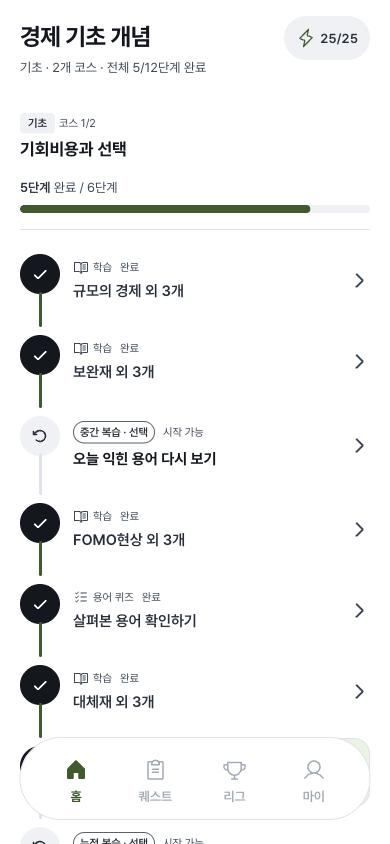
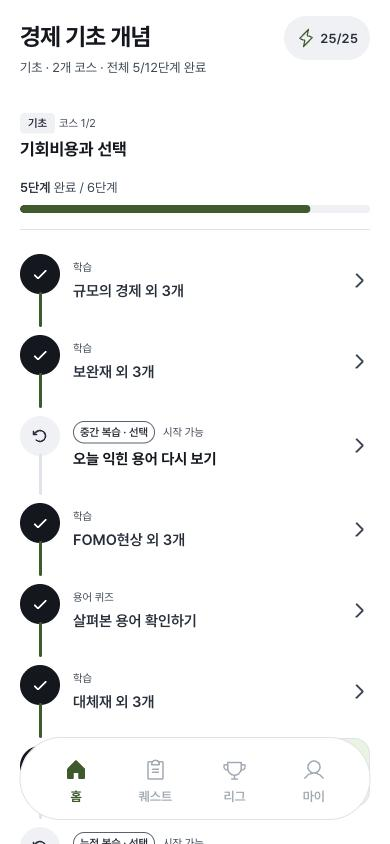
주제 화면 단계 줄에서 책·퀴즈 아이콘 제거, 완료 글자는 체크로 대신하고 화면 읽기용으로만

diff --git a/src/pages/CourseScreen.test.tsx b/src/pages/CourseScreen.test.tsx
@@ -478,7 +478,6 @@ describe('학습 주제의 역할 아이콘', () => {
     const current = container.querySelector('.course-node-current');
     expect(current).toBeInTheDocument();
     expect(current).not.toHaveClass('border-brand-200');
-    expect(current?.querySelector('[data-learning-icon]')?.parentElement).not.toHaveClass('bg-[var(--color-brand-soft)]');
     expect(current?.querySelector('[data-learning-status]')).toHaveTextContent('시작 가능');
     expect(current?.querySelector('[data-learning-status]')).not.toHaveClass('rounded-full');
     expect(current?.textContent).not.toContain('지금 할 일');
@@ -496,14 +495,11 @@ describe('학습 주제의 역할 아이콘', () => {
     expect(state.spendEnergy).toHaveBeenCalledWith(1, 'lesson', 'c1-l0:1,2,3,4');
   });
 
-  it('학습·퀴즈는 번호와 역할 그림, 복습은 번호 없이 배지로 구분한다', async () => {
+  it('학습·퀴즈는 번호와 역할 글자(아이콘 없이), 복습은 번호 없이 배지로 구분한다', async () => {
     const { container } = await mount();
-    const icons = [...container.querySelectorAll('[data-learning-icon]')];
-    expect(icons.map(icon => icon.getAttribute('data-learning-icon'))).toEqual(['lesson', 'quiz']);
-    for (const icon of icons) {
-      expect(icon).toHaveAttribute('width', '16');
-      expect(icon).toHaveAttribute('aria-hidden', 'true');
-    }
+    const kinds = [...container.querySelectorAll('[data-learning-kind]')];
+    expect(kinds.map(kind => kind.getAttribute('data-learning-kind'))).toEqual(['lesson', 'quiz']);
+    expect(container.querySelector('[data-learning-icon]')).toBeNull();
     expect(container.querySelector('[data-review-badge]')).toHaveTextContent('· 선택');
     const markers = [...container.querySelectorAll('.course-step-marker')];
     const review = markers.find(m => m.getAttribute('data-step-kind') === 'review')!;
@@ -511,11 +507,19 @@ describe('학습 주제의 역할 아이콘', () => {
     expect(review.querySelector('[data-icon="RotateCcw"]')).toBeInTheDocument();
   });
 
+  it('완료한 단계는 체크만 보이고 완료 글자는 화면 읽기용으로만 둔다', async () => {
+    baseContext({ knownIds: new Set([1, 2, 3, 4]) });
+    const { container } = await mount();
+    const status = container.querySelector('[data-node-id="c1-l0"] [data-learning-status]');
+    expect(status).toHaveTextContent('완료');
+    expect(status).toHaveClass('sr-only');
+  });
+
   it('잠긴 단계도 역할을 표시하며 잠금과 학습 동작은 유지한다', async () => {
     const { container } = await mount();
     const locked = [...container.querySelectorAll<HTMLButtonElement>('button[data-node-id]:disabled')];
     expect(locked).toHaveLength(2);
-    expect(locked[0].querySelector('[data-learning-icon="quiz"]')).toBeInTheDocument();
+    expect(locked[0].querySelector('[data-learning-kind="quiz"]')).toBeInTheDocument();
     expect(locked[1].querySelector('[data-review-badge]')).toBeInTheDocument();
     for (const button of locked) {
       expect(button.textContent).toContain('잠김');

diff --git a/src/pages/CourseScreen.tsx b/src/pages/CourseScreen.tsx
@@ -1,5 +1,5 @@
 import React, { useMemo, useRef, useLayoutEffect, useEffect, useState } from 'react';
-import { BookOpenText, Check, ListChecks, LockKeyhole, RotateCcw } from '../components/ui/OtterIcons';
+import { Check, LockKeyhole, RotateCcw } from '../components/ui/OtterIcons';
 import { List, ListRow } from '@toss/tds-mobile';
 import { TopicThumb } from '../components/TopicThumb';
 import { COURSE_NAMES } from '../lib/topicImages';
@@ -503,7 +503,6 @@ const CourseScreen = () => {
             const done = isDone(node);
             const locked = node.state === 'locked';
             const copy = nodeCopy(node);
-            const Icon = node.type === 'quiz' ? ListChecks : node.type === 'review' ? RotateCcw : BookOpenText;
             const inProgress = node.type === 'lesson' && !done && node.words.some(word => knownIds.has(word.id));
             // 다음에 할 단계만 카드로 띄우고, 끝났거나 잠긴 단계는 평평한 행으로 둔다
             const nodeCardClass = isFocus && !locked ? 'course-node-current border-[var(--color-line)] bg-[var(--color-card)] px-4' : 'border-transparent bg-transparent px-0';
@@ -523,12 +522,10 @@ const CourseScreen = () => {
                       {isReview ? (
                         <span data-review-badge className="inline-flex items-center rounded-chip border border-[var(--color-line-strong)] px-1.5 py-0.5 font-semibold text-[var(--color-ink-2)]">{copy.kind} · 선택</span>
                       ) : (
-                        <span className="inline-flex items-center gap-1">
-                          <Icon size={16} strokeWidth={1.75} aria-hidden="true" data-learning-icon={node.type} className="shrink-0" />
-                          {copy.kind}
-                        </span>
+                        <span data-learning-kind={node.type}>{copy.kind}</span>
                       )}
-                      <span data-learning-status className={`font-normal ${locked ? 'text-[var(--color-ink-4)]' : isFocus ? 'text-[var(--color-ink-2)]' : 'text-[var(--color-ink-3)]'}`}>{nodeStatus}</span>
+                      {/* 완료는 왼쪽 체크로 보이므로 글자는 화면 읽기용으로만 둔다 */}
+                      <span data-learning-status className={done ? 'sr-only' : `font-normal ${locked ? 'text-[var(--color-ink-4)]' : isFocus ? 'text-[var(--color-ink-2)]' : 'text-[var(--color-ink-3)]'}`}>{nodeStatus}</span>
                     </span>
                     <span className={`mt-1 block text-sm break-keep ${locked ? 'font-semibold text-[var(--color-ink-3)]' : done ? 'font-semibold text-[var(--color-ink-2)]' : 'font-bold text-[var(--color-ink)]'}`}>{copy.title}</span>
                   </span>
